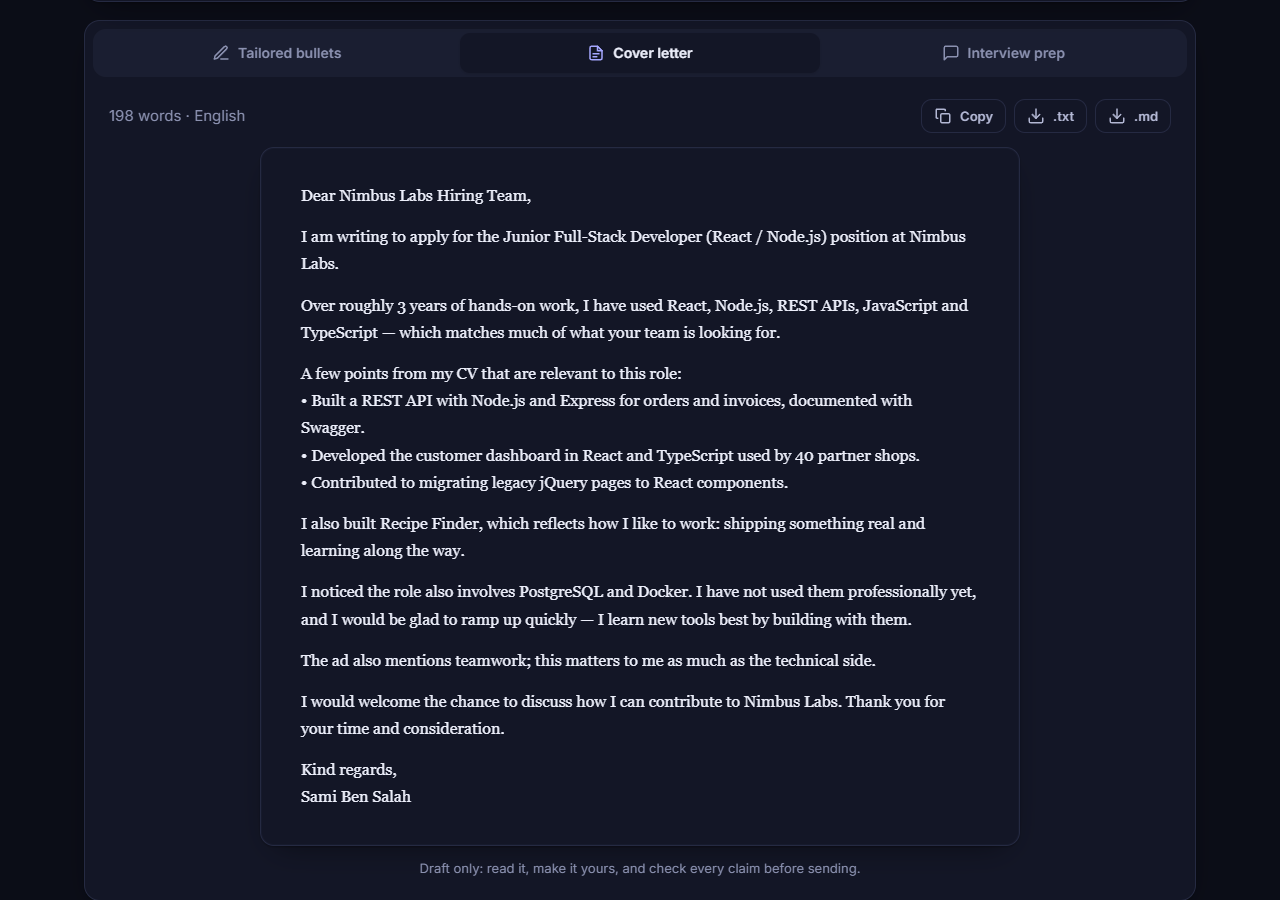
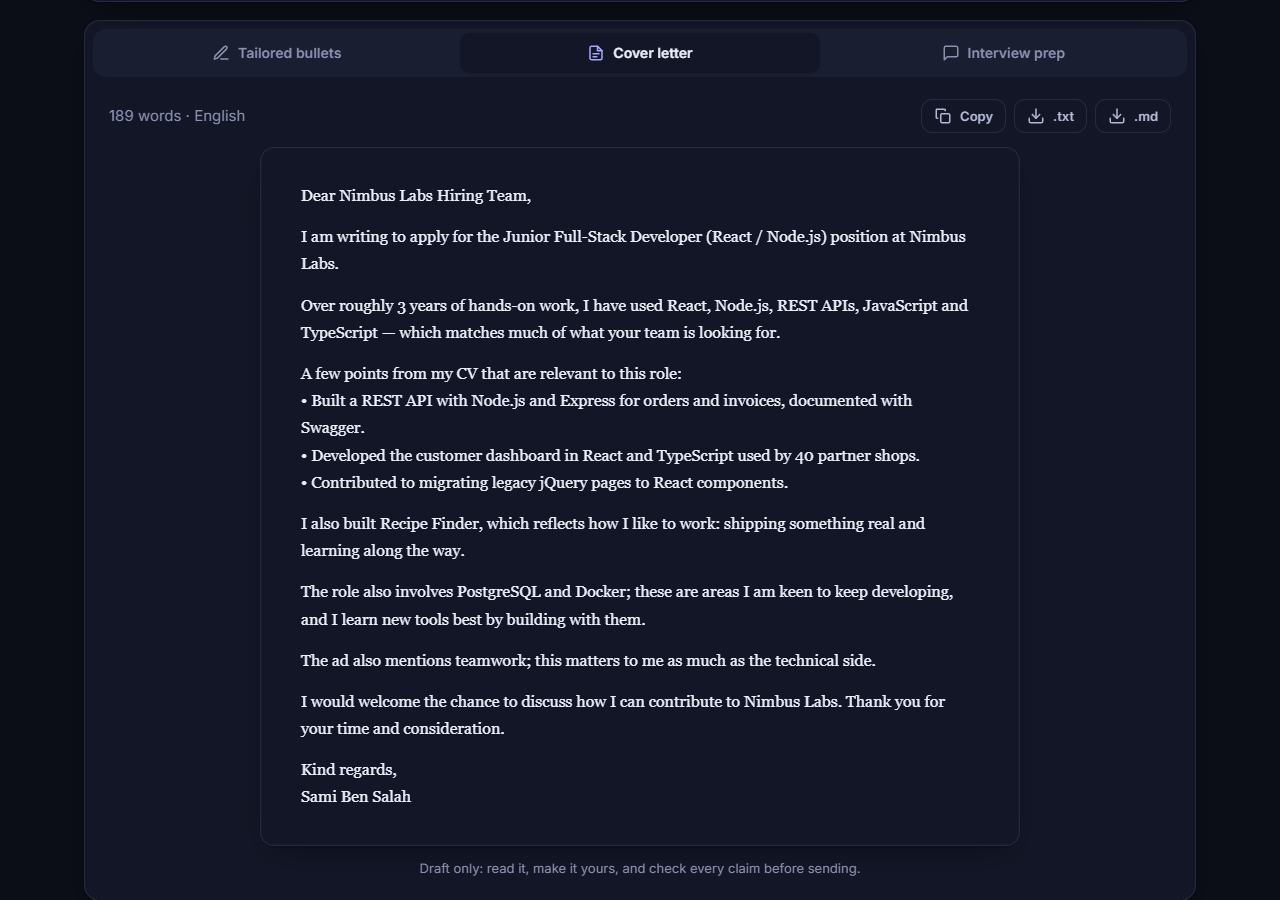
README: document the fixes, golden-set results, updated screenshots
- Removed the "works once Pages is enabled" note (Pages is live)
- Offline analyzer section: one skill per product, one-way implications,
  context for ambiguous names, per-clause "is a plus", honest gap wording
- Golden-set table, privacy (session keys, CSP, self-hosted fonts),
  structured output fallback, timeouts, prompt versions, test inventory
  (176 tests in 14 files) and project structure
- Screenshots regenerated from the current build

Changed region(s): [[0.25, 0.6533, 0.75, 0.7156]]

diff --git a/README.md b/README.md
@@ -5,7 +5,6 @@
 [![CI](https://github.com/naniiic137/jobfit-ai/actions/workflows/ci.yml/badge.svg)](https://github.com/naniiic137/jobfit-ai/actions/workflows/ci.yml)
 
 **Live demo:** https://naniiic137.github.io/jobfit-ai/
-<sub>(The link works once GitHub Pages is enabled for this repository: *Settings → Pages → Source: GitHub Actions*.)</sub>
 
 It runs entirely in the browser. There is no backend and nothing to pay for:
 
@@ -36,11 +35,13 @@ All screenshots use the bundled sample CV and job ad in offline mode. The candid
 
 - **CV input:** paste it, or upload a PDF. Text is extracted in the browser with pdf.js, which is lazy-loaded so it is only downloaded when you need it.
 - **Match score from 0 to 100** with a breakdown by category (languages, frontend, backend, data, DevOps, AI, tools, practices, soft skills).
-- **Matched and missing skill chips.** Missing skills are marked *required* or *nice to have*, based on the section of the ad they appear in. Hover a matched chip to see the CV line that proves it.
-- **Tailored CV bullets** shown as before/after. Weak verbs get replaced, the ad's wording is reused (for example "ReactJS" becomes "React"), and a highlighted placeholder asks for a *real* metric.
+- **Matched and missing skill chips.** Missing skills are marked *required* or *nice to have*, based on the section of the ad (and the clause of the line) they appear in. Hover a matched chip to see the CV line that proves it. When an LLM claims a skill but its quote is not in your CV, it is shown apart as *claimed, not found in CV* and earns no points.
+- **Coverage note.** The results say how many skills were recognised in the ad, and warn when there are too few for the score to mean much (for example a non-software ad in offline mode).
+- **Tailored CV bullets** shown as before/after. Weak verbs get replaced, the ad's spelling of a product is reused when it is only a spelling difference ("ReactJS" becomes "React"), and a highlighted placeholder asks for a *real* metric. Other products and versions are never rewritten: "GitLab CI" stays "GitLab CI", "Zustand" never becomes "Redux", "Java 17" keeps its version.
 - **Cover-letter draft** in English or French: copy it, or download it as `.txt` or `.md`.
 - **Likely interview questions**, each with why it may be asked and a tip that points back to your own CV.
-- **History** of past analyses, kept in localStorage (last 20).
+- **History** of past analyses, kept in localStorage (last 20) and validated when loaded, so an old or corrupted entry is dropped instead of breaking the page.
+- **LLM requests you control:** a Cancel button while a model is answering, a 90-second timeout with a readable error, and a warning when your CV or the ad is longer than the 12,000 characters sent to the model.
 - **Sample CV and job ad** so you can try it in one click.
 - Dark and light themes, responsive down to 390px, keyboard-accessible tabs and dialogs, and a skip link.
 
@@ -57,8 +58,8 @@ All screenshots use the bundled sample CV and job ad in offline mode. The candid
           │ provider = offline                                   │ provider = gemini | ollama | openai
           ▼                                                      ▼
 ┌──────────────────────────┐              ┌──────────────────────────────────────────────┐
-│ Offline analyzer         │              │ prompts/  system rules + 1 few-shot example  │
-│ • taxonomy (107 skills,  │   pre-scan   │           + <cv>/<job_ad> fenced input       │
+│ Offline analyzer         │              │ prompts/  system rules + few-shot (EN or FR) │
+│ • taxonomy (177 skills,  │   pre-scan   │           + <cv>/<job_ad> fenced input       │
 │   EN + FR synonyms)      │─────hint────►│ providers/ gemini · ollama · openaiCompat    │
 │ • section detection      │              │           (raw text out, JSON requested)     │
 │   (required / nice /     │              │ run.ts    extractJson → zod.safeParse        │
@@ -86,10 +87,32 @@ All screenshots use the bundled sample CV and job ad in offline mode. The candid
 
 ### Offline analyzer (no key needed)
 
-1. **Extraction.** `src/analyzer/taxonomy.ts` holds 107 hand-picked skills with aliases (`ReactJS`, `Postgres`, `K8s`…) and French synonyms (`travail en équipe`, `tests unitaires`, `intégration continue`, `apprentissage automatique`…). Matching ignores accents and case, handles tokens like `C++`, `C#`, `.NET`, `Node.js` and `CI/CD`, and doesn't confuse `Java` with `JavaScript`. Ambiguous words (`Go`, `Rust`, `Express`, `Swift`) are only accepted with their capital letter and in a list-like context.
-2. **Section detection.** `src/analyzer/sections.ts` splits the ad into *intro / requirements / nice-to-have / responsibilities / company / perks* using English and French headings ("Profil recherché", "Atouts", "Vos missions"…). Inline markers such as "is a plus" or "serait un plus" downgrade a single line. Skills that only appear under perks ("AWS training budget") are ignored.
-3. **Implied skills.** MySQL on a CV satisfies an ad that asks for SQL, and NestJS implies Node.js, TypeScript and JavaScript. The evidence shown is the more specific skill's line.
-4. **Templates.** Bullet rewrites, gap advice, cover letter and interview questions come from EN/FR templates (`src/analyzer/templates.ts`). They only use **direct quotes from the CV** or **clearly marked placeholders**.
+1. **Extraction.** `src/analyzer/taxonomy.ts` holds 177 hand-picked skills, one per product, with their spelling variants (`ReactJS`, `Postgres`, `K8s`…) and French synonyms (`travail en équipe`, `tests unitaires`, `intégration continue`…). Matching ignores accents and case, handles tokens like `C++`, `C#`, `.NET`, `Node.js` and `CI/CD`, doesn't confuse `Java` with `JavaScript`, and lets the longer mention win ("GitHub Actions" is the CI tool, not also "GitHub"). All terms are compiled into one longest-first regex.
+2. **Different products stay different.** "Zustand" is not "Redux", "GitLab" is not "Git", "TensorFlow" is not "PyTorch", "real-time" is not "WebSockets". When one product really proves another, that is an explicit, one-way implication (`IMPLIES`): Helm ⇒ Kubernetes, GitHub ⇒ Git, MySQL ⇒ SQL and relational databases, NestJS ⇒ Node.js and TypeScript. The evidence shown is the line of the more specific product.
+3. **Ambiguous words need context.** `Go`, `Rust`, `Express` and `Swift` only count with their capital letter in a list-like context. `Claude`, `Gemini`, `Llama` and `GPT` are case-sensitive and need an AI word on the same line (API, model, LLM, prompt…) or a version (`GPT-4o`, `Llama 3`), so "Claude Martin" is a person, not an LLM. The CV's name line, e-mail addresses and URLs are masked before extraction. Bare `REST` counts (case-sensitive), "rest" does not.
+4. **Section detection.** `src/analyzer/sections.ts` splits the ad into *intro / requirements / nice-to-have / responsibilities / company / perks* using English and French headings ("Profil recherché", "Atouts", "Vos missions"…). Inline markers such as "is a plus" or "serait un plus" are read per clause: in "React is required, TypeScript is a plus" only TypeScript becomes a nice-to-have, while "Docker, Kubernetes and Terraform are a plus" covers the whole list. Skills that only appear under perks ("AWS training budget") are ignored.
+5. **Templates.** Bullet rewrites, gap advice, cover letter and interview questions come from EN/FR templates (`src/analyzer/templates.ts`). They only use **direct quotes from the CV** or **clearly marked placeholders**. A skill the keyword scan did not find is never turned into "I have not used X": the letter says it is an area to keep developing. French letters open with "Madame, Monsieur," and avoid gendered adjectives.
+
+### Golden-set evaluation
+
+`src/analyzer/golden.fixtures.ts` holds 8 hand-labelled CV/ad pairs (five from an external code review, the bundled sample, an AI-engineer pair and a French Angular pair) with the skills a careful recruiter would extract, their importance and whether the CV proves them. Skills the taxonomy doesn't know (Oracle, Istio, a nursing licence…) are labelled too, so recall is honest. `npm test` prints:
+
+```
+case                                     ext P   ext R  import match P match R
+1 Java backend (EN)                     100.0%   92.9%  100.0%  100.0%  100.0%
+2 French full-stack (FR)                100.0%  100.0%  100.0%  100.0%  100.0%
+3 Marketing CV vs DevOps ad             100.0%   84.2%  100.0%  100.0%  100.0%
+4 "required, … is a plus" + Zustand     100.0%  100.0%  100.0%  100.0%  100.0%
+5 Non-tech (nurse) ad                   100.0%   20.0%  100.0%  100.0%  100.0%
+6 Bundled sample                        100.0%  100.0%  100.0%  100.0%  100.0%
+7 AI engineer (RAG, Claude API)         100.0%  100.0%  100.0%  100.0%  100.0%
+8 Angular (FR, inline "est un plus")    100.0%   90.0%  100.0%  100.0%  100.0%
+------------------------------------------------------------------------------
+ALL (micro-average)                     100.0%   91.4%  100.0%  100.0%  100.0%
+(105 labelled skills; recall counts 9 skills outside the taxonomy as misses)
+```
+
+*ext* is skill extraction from the ad, *import* is required vs nice-to-have, and *match* is "the CV proves it". Match precision is the honesty metric and the test requires it to stay at 100%. The set is small and was labelled for this project (not by independent annotators), so treat it as a regression guard rather than a benchmark.
 
 ## Prompt-engineering approach
 
@@ -98,8 +121,9 @@ The prompts live in `src/prompts/`:
 | File | What it does |
 | --- | --- |
 | `system.ts` | System instructions. **Grounding rules come first**, then the output spec, then language and format rules. |
-| `fewshot.ts` | One compact worked example (CV, ad and the full JSON answer). A unit test validates it against the zod schema, so it can't drift from what the app accepts. |
+| `fewshot.ts` | One compact worked example per output language (CV, ad and the full JSON answer, in English and in French). The one matching the requested language is used. Unit tests validate both against the zod schema, so they can't drift from what the app accepts. |
 | `build.ts` | Builds the messages (`system` + few-shot pair + real request), fences the untrusted input, and builds the repair prompt. |
+| `limits.ts` | The 12,000-character input limit, shared with the UI so it can warn before anything is cut. |
 
 **The grounding rule (the most important one):**
 
@@ -113,7 +137,7 @@ In practice this means:
 
 **Structured output, validated and repaired:**
 
-1. The request asks for JSON: Gemini gets `responseMimeType: application/json` plus a `responseJsonSchema` generated from the zod schema (`z.toJSONSchema`), Ollama gets the schema through `format`, and OpenAI-compatible APIs get `response_format: { type: "json_object" }`.
+1. The request asks for JSON: Gemini gets `responseMimeType: application/json` plus a `responseJsonSchema` generated from the zod schema (`z.toJSONSchema`), Ollama gets the schema through `format`, and OpenAI-compatible APIs get `response_format: { type: "json_schema" }` with the same schema. If an endpoint or model rejects that with a 400/422, the app falls back to `json_object` for it.
 2. The reply goes through `extractJson`, which tolerates markdown fences and surrounding prose, and then `AnalysisPayloadSchema.safeParse`.
 3. If validation fails, **one repair call** is made. It replays the bad answer with the exact zod errors (`skills.0.importance: Invalid option…`) and asks for a corrected object. If that fails too, the user sees a clear error instead of half-broken data.
 
@@ -121,14 +145,18 @@ In practice this means:
 
 - **Prompt-injection guard.** The CV and the ad are wrapped in `<cv>` / `<job_ad>` tags, closing tags inside them are neutralised, and the system prompt says their content is data, not instructions.
 - **Pre-scan hint.** The deterministic keyword scan is passed along as a hint labelled "may be incomplete or wrong — verify against the texts". This helps small local models not to miss obvious skills.
-- **Context limits.** Inputs are clipped to 12,000 characters each so requests stay within free-tier limits.
+- **Context limits.** Inputs are clipped to 12,000 characters each so requests stay within free-tier limits. The UI warns before you analyse, and the result keeps a note, when something was cut.
+- **Timeouts and cancel.** Every request is combined with `AbortSignal.timeout(90 s)`; a slow model ends with a readable "timed out" error instead of spinning forever, and the Cancel button aborts the same request.
+- **Versioned prompts.** `PROMPT_VERSION` is stored on every LLM result (shown in the provider badge tooltip), so an old analysis in the history can be traced to the prompt that produced it.
 
 ## Privacy
 
 - **There is no JobFit server.** The app is static files on GitHub Pages.
 - **Offline mode sends nothing anywhere.** Your CV and the ad stay in your browser.
 - With an AI provider, the CV and the ad are sent **only to the provider you pick** (Google, your local Ollama, or the base URL you enter).
-- **API keys are stored only in this browser's `localStorage`** and are sent only to that provider. Gemini keys go in the `x-goog-api-key` header, never in the URL. Settings has a **Forget keys** button, which is worth using on a shared computer.
+- **API keys are kept in `sessionStorage` by default**, so they are gone when you close the browser. Tick *Remember API keys on this device* to keep them in `localStorage` instead. Keys are sent only to the provider you pick; Gemini keys go in the `x-goog-api-key` header, never in the URL. Settings has a **Forget keys** button, which is worth using on a shared computer.
+- **Content Security Policy.** The built page carries a CSP that only allows network requests to itself, the known LLM providers (Google, Groq, OpenRouter, OpenAI, Mistral, Together, DeepSeek) and `localhost` for Ollama or LM Studio. Scripts must come from the site itself (the one inline script is allowed by its hash). An OpenAI-compatible endpoint on another host is blocked by the browser; add it to `CONNECT_SRC` in `src/lib/csp.ts` if you self-host.
+- **No third-party requests.** Fonts (Inter and Space Grotesk) are bundled with the app instead of loaded from Google Fonts, so opening the page doesn't contact anyone else.
 - History and drafts are also kept in `localStorage` and can be cleared from the History dialog.
 - Calling an LLM API directly from the browser means the key sits in the browser. That is fine for a personal key on your own machine, but don't paste a key you share with others.
 
@@ -160,40 +188,46 @@ Click **Try the sample CV + job ad**, then **Analyse match**.
 ## Tests
 
 ```bash
-npm test           # Vitest: 97 tests in 9 files
+npm test           # Vitest: 176 tests in 14 files (prints the golden-set table)
 npm run build      # tsc --noEmit (strict) + vite build
 ```
 
 What the tests cover:
 
-- **Extraction** (`extract.test.ts`): special-character tokens, Java vs JavaScript, aliases, French synonyms, ambiguous words, evidence snippets.
-- **Section detection** (`sections.test.ts`): English and French headings, key/value lines, inline "is a plus" markers, ignored perks, strongest importance wins.
+- **Extraction** (`extract.test.ts`): special-character tokens, Java vs JavaScript, spelling variants, French synonyms, ambiguous words, different products kept apart (Zustand/Redux, GitLab/Git, TensorFlow/PyTorch…), one-way implications, LLM names needing context, the CV header being ignored, bare "REST", evidence snippets.
+- **Section detection** (`sections.test.ts`): English and French headings, key/value lines, inline "is a plus" markers read per clause ("React is required, TypeScript is a plus"), ignored perks, strongest importance wins.
 - **Scoring** (`score.test.ts`): weights, bands, category breakdown.
 - **Facts** (`facts.test.ts`): years of experience from explicit text or date ranges (education excluded), job title and company, CV name, bullets and projects.
-- **Offline analyzer** (`offline.test.ts`): end-to-end on the sample. The output passes the LLM schema, every evidence quote exists in the CV, the cover letter never claims missing skills, metrics are placeholders, and French output and French ads work.
+- **Offline analyzer** (`offline.test.ts`): end-to-end on the sample. The output passes the LLM schema, every evidence quote exists in the CV, the cover letter never claims missing skills nor says "I have not used X", metrics are placeholders, and French output and French ads work. Regression tests check that "GitLab CI", "Zustand", "TensorFlow" and "Java 17" bullets are never rewritten into another product or version, and that the summary never contradicts itself.
+- **Golden set** (`golden.test.ts`): precision/recall on 8 labelled pairs, with 100% "CV proves it" precision required.
 - **Grounding checks** (`finalize.test.ts`): invented evidence is flagged and earns no points.
 - **zod schemas** (`analysis.test.ts`): the few-shot example is valid, bad shapes are rejected, and the JSON Schema export is checked.
 - **Prompt builders** (`prompts.test.ts`): grounding rule, language, fencing and injection guard, clipping, repair prompt.
-- **Provider pipeline** (`run.test.ts`): JSON extraction, validate → repair → give up, offline mode makes no network call, and the Gemini request shape (key in a header, roles mapped, JSON mode on), with `fetch` mocked.
+- **Provider pipeline** (`run.test.ts`): JSON extraction, validate → repair → give up, offline mode makes no network call, the Gemini request shape (key in a header, roles mapped, JSON mode on), the 90 s timeout and user cancel, and the OpenAI-compatible `json_schema` → `json_object` fallback, with `fetch` mocked.
+- **Storage** (`storage.test.ts`, jsdom): history round-trip, invalid and corrupted entries dropped, v1 migration, API keys in sessionStorage unless "remember" is on.
+- **CSP** (`csp.test.ts`): provider hosts and localhost allowed, other hosts not, the inline script hashed, no Google Fonts.
+- **Components** (`App.test.tsx`, `Results.test.tsx`, jsdom + Testing Library): the analyse flow, the minimum-length hint, provider errors in the alert, a missing key caught before any request, Cancel and abort on unmount, the truncation warning, tabs keyboard navigation, the "claimed, not found in CV" chips and the coverage note.
 
 ## Project structure
 
 ```
 src/
 ├── analyzer/          # deterministic engine (offline mode + scoring for all modes)
-│   ├── taxonomy.ts    # 107 skills, aliases, French synonyms, implications
-│   ├── extract.ts     # accent-insensitive token matching, evidence snippets
-│   ├── sections.ts    # required / nice-to-have / responsibilities / perks detection
+│   ├── taxonomy.ts    # 177 skills, variants, French synonyms, one-way implications
+│   ├── extract.ts     # accent-insensitive token matching, CV header masking, evidence snippets
+│   ├── sections.ts    # required / nice-to-have / responsibilities / perks, per-clause markers
 │   ├── facts.ts       # name, bullets, projects, years; job title, company, min years
 │   ├── score.ts       # weighted score, category breakdown, bands
 │   ├── templates.ts   # EN/FR strings, weak-verb table, interview question bank
 │   ├── offline.ts     # analyzeOffline(): builds the AnalysisPayload
-│   └── finalize.ts    # dedupe, evidence verification, score → AnalysisResult
-├── prompts/           # system.ts · fewshot.ts · build.ts (messages, fencing, repair)
-├── providers/         # gemini.ts · ollama.ts · openaiCompat.ts · http.ts · run.ts (validate + repair)
-├── schemas/           # analysis.ts: zod schema + JSON Schema export
+│   ├── runOffline.ts  # offline path in one call (no zod, no providers)
+│   ├── finalize.ts    # dedupe, evidence verification, score → AnalysisResult
+│   └── golden.*.ts    # labelled evaluation set + precision/recall test
+├── prompts/           # system.ts · fewshot.ts (EN + FR) · build.ts · limits.ts
+├── providers/         # gemini.ts · ollama.ts · openaiCompat.ts · http.ts (timeout) · run.ts (validate + repair, lazy-loaded)
+├── schemas/           # analysis.ts: zod schema + JSON Schema export · categories.ts (zod-free)
 ├── components/        # Results, ScoreGauge, SettingsDialog, HistoryDialog, Dialog, Icons
-├── lib/               # pdf.ts (pdf.js), storage.ts (localStorage), download.ts
+├── lib/               # pdf.ts (pdf.js), storage.ts + historySchema.ts, csp.ts, download.ts
 ├── data/samples.ts    # fictional sample CV + job ad
 ├── App.tsx · main.tsx · styles.css
 .github/workflows/     # ci.yml (test + build) · deploy.yml (GitHub Pages)
@@ -202,12 +236,13 @@ docs/screenshots/
 
 ## Tech stack
 
-React 18 · TypeScript (strict) · Vite · zod · pdf.js (`pdfjs-dist`) · Vitest · plain CSS with design tokens (dark and light themes) · GitHub Actions and GitHub Pages.
+React 18 · TypeScript (strict) · Vite · zod (lazy-loaded) · pdf.js (`pdfjs-dist`) · Vitest · jsdom + Testing Library · self-hosted fonts (Fontsource) · plain CSS with design tokens (dark and light themes) · GitHub Actions and GitHub Pages.
 LLM providers: Google Gemini (Generative Language REST API), Ollama, and any OpenAI-compatible Chat Completions API.
 
 ## Limitations
 
-- Offline mode is keyword-based. It only knows the skills in the taxonomy, and its cover letter is a template built from your own CV lines. A connected LLM writes more natural text.
+- Offline mode is keyword-based. It only knows the skills in the taxonomy (the results say how many it recognised in each ad), and its cover letter is a template built from your own CV lines. A connected LLM writes more natural text.
+- "X or Y" requirements are counted as two skills, so a CV with only one of them shows the other as missing.
 - The Gemini, Ollama and OpenAI-compatible paths are covered by mocked tests, but real responses depend on the model you choose. Small local models may need the repair step more often.
 - PDF import reads text-based PDFs. Scanned (image-only) CVs need to be pasted as text.
 
